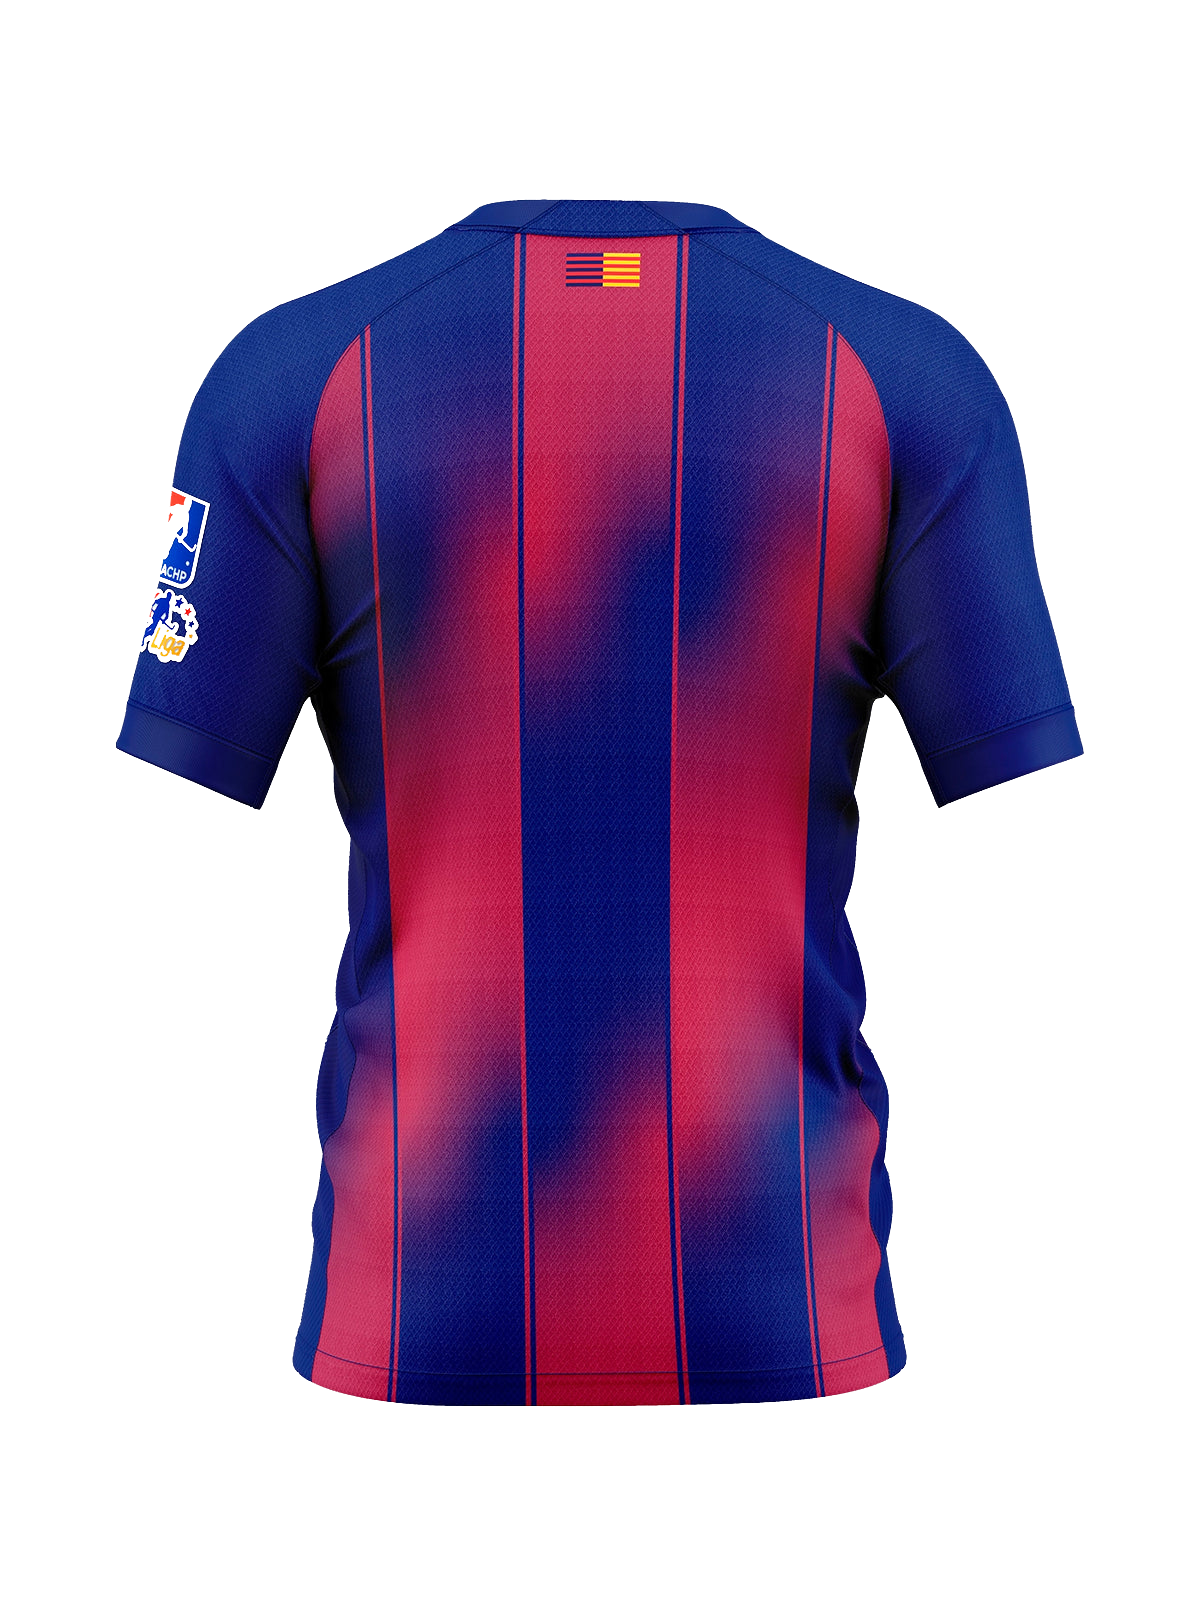
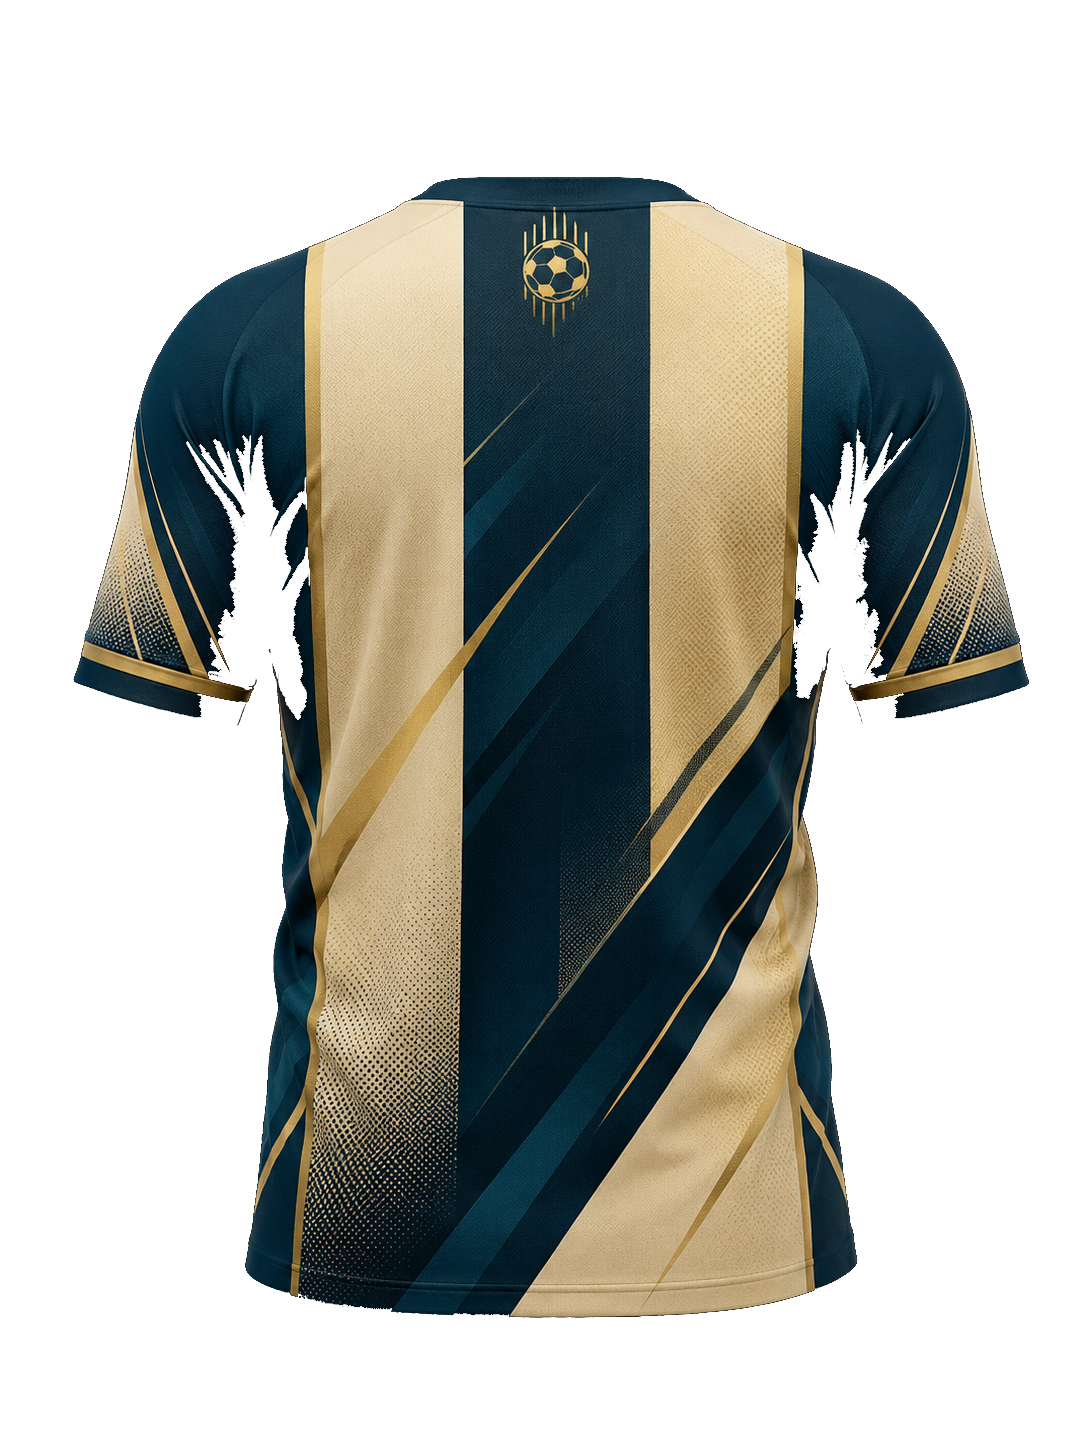
changes

diff --git a/teams.html b/teams.html
@@ -264,7 +264,7 @@
                             <div class="product-items">
                                 <div class="product-card">
                                     <div class="product-img">
-                                        <img src="assets/images/new-york.jpeg" alt="New York Jersey">
+                                        <img src="assets/images/new-york.png" alt="New York Jersey">
                                     </div>
                                     <div class="product-content">
                                         <h3>New York</h3>
@@ -502,7 +502,7 @@
                             <div class="product-items">
                                 <div class="product-card">
                                     <div class="product-img">
-                                        <img src="assets/images/new-york.jpeg" alt="New York Jersey">
+                                        <img src="assets/images/new-york.png" alt="New York Jersey">
                                     </div>
                                     <div class="product-content">
                                         <h3>New York</h3>